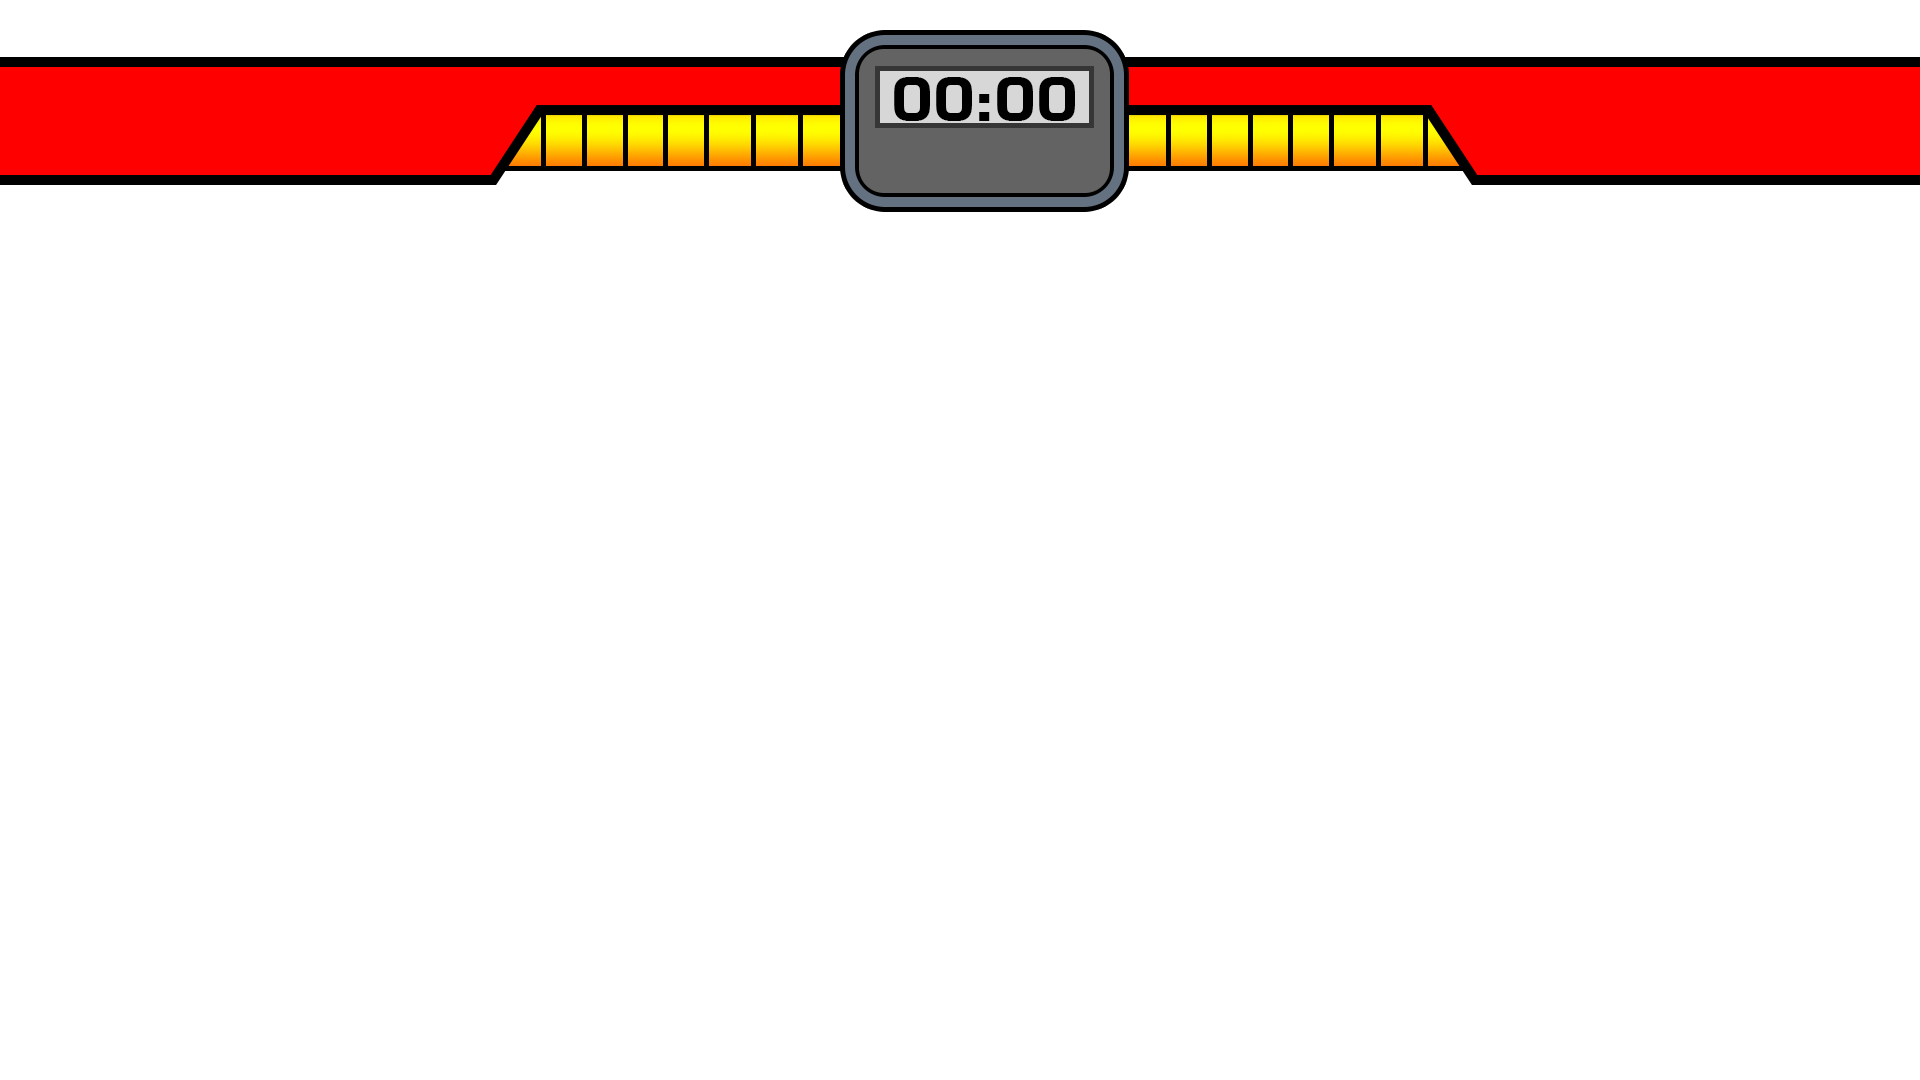
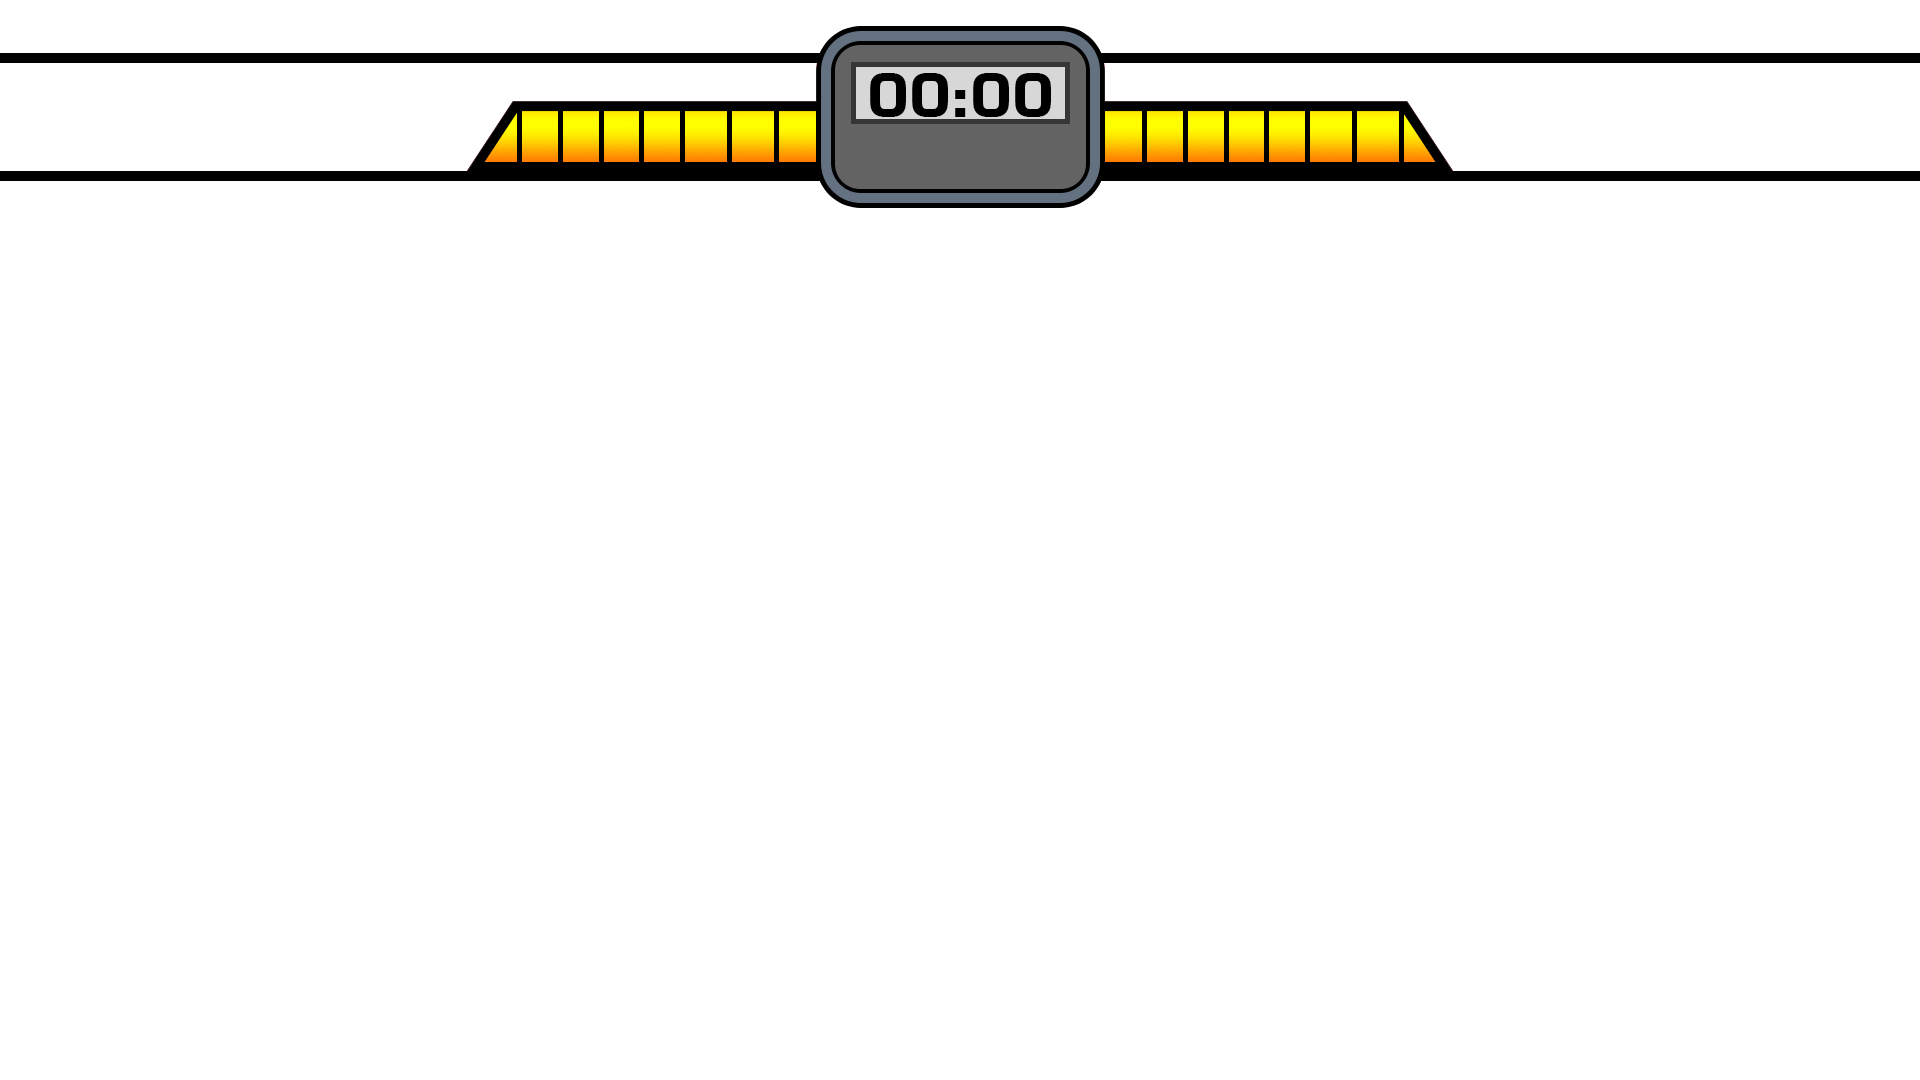
Implemented multiple character select and screen assets, reorganized and refined gameStates, began health bar integration

Changed region(s): [[0.0, 0.0, 1.0, 0.2139]]

diff --git a/Main Project - eSports/Project Kickass/Game1.cs b/Main Project - eSports/Project Kickass/Game1.cs
@@ -30,26 +30,35 @@ namespace Project_Kickass
         GraphicsDeviceManager graphics;
         SpriteBatch spriteBatch;
 
-        // here is a comment solely for github testing purposes so remove this shit at some point, k? 
-
         // asset attributes
         Texture2D titleScreen; // the title screen
         Texture2D healthBar; // the health bar
+        Texture2D health; // the health of each player
         Texture2D tile;
         Texture2D character;
         Texture2D character2;
         Texture2D pauseScreen;
+        Texture2D background;
+        Texture2D frame;
+        Texture2D sel1;
+        Texture2D sel2;
         Vector2 characterPos;
         Texture2D projectile;
         Rectangle titleSize;
         Rectangle healthBarSize;
-        Rectangle pauseSize; 
-        Boolean isActive;
+        Rectangle backgroundSize;
+        Rectangle frame1Size;
+        Rectangle frame2Size;
+        Rectangle sel1Size;
+        Rectangle pauseSize;
+        Rectangle health1Size;
+        Rectangle health2Size;
         Boolean isShot;
         GameBoard board;
         Character char1;
         Character char2;
         int gameState = 0;
+        bool canToggle;
 
         // keyboard state attribute
         KeyboardState kState;
@@ -88,21 +97,41 @@ namespace Project_Kickass
             spriteBatch = new SpriteBatch(GraphicsDevice);
 
             // TODO: use this.Content to load your game content here
+            // stage stuff
             tile = Content.Load<Texture2D>("Panels HD.png");
+            board = new GameBoard(tile);
+
+            // character stuff
             character = Content.Load<Texture2D>("Standing Sprite.png");
             character2 = Content.Load<Texture2D>("Scaled Character 1 Standing Sprite.png");
             projectile = Content.Load<Texture2D>("Projectile Sprite.png");
-            board = new GameBoard(tile);
             characterPos = new Vector2(7, 75);
-            titleScreen = Content.Load<Texture2D>("TitleScreenPlaceHolder.png"); // loads the title screen
-            titleSize = new Rectangle(0, 0, GraphicsDevice.Viewport.Width, GraphicsDevice.Viewport.Height); // creates a Rectangle object to set the size of the title screen to the size of the screen
-            healthBar = Content.Load<Texture2D>("HealthBar.png"); // loads the title screen
-            healthBarSize = new Rectangle(0, 0, GraphicsDevice.Viewport.Width, (GraphicsDevice.Viewport.Height)); // creates a Rectangle object to set the size of the title screen to
             char1 = new Character(0, 0, 100, 1, character);
             char2 = new Character(0, 7, 100, 2, character2);
-            healthBarSize = new Rectangle(0, 0, GraphicsDevice.Viewport.Width, (GraphicsDevice.Viewport.Height)); // creates a Rectangle object to set the size of the title screen to the size of the screen
+
+            // screen stuff
+            titleScreen = Content.Load<Texture2D>("TitleScreen.png"); // loads the title screen
+            titleSize = new Rectangle(0, 0, GraphicsDevice.Viewport.Width, GraphicsDevice.Viewport.Height); // creates a Rectangle object to set the size of the title screen to the size of the screen
             pauseScreen = Content.Load<Texture2D>("PauseScreenTemp.png"); // loads the pause screen
             pauseSize = new Rectangle(0, 0, GraphicsDevice.Viewport.Width, (GraphicsDevice.Viewport.Height)); // creates a Rectangle object to set the size of the pause screen to the size of the screen
+            background = Content.Load<Texture2D>("Background.png"); // loads the background screen
+            backgroundSize = new Rectangle(0, 0, GraphicsDevice.Viewport.Width, (GraphicsDevice.Viewport.Height)); // creates a Rectangle object to set the size of the background screen to the size of the screen
+
+            // health bar stuff
+            healthBar = Content.Load<Texture2D>("HealthBar.png"); // loads the health bar
+            healthBarSize = new Rectangle(0, 0, GraphicsDevice.Viewport.Width, (GraphicsDevice.Viewport.Height)); // creates a Rectangle object to set the size of the title screen to
+            health = Content.Load<Texture2D>("Health.png"); // loads the player health 
+            health1Size = new Rectangle(0, 28, 600, 52); // creates a Rectangle object to set the size of player 1's health to
+            health2Size = new Rectangle(500, 28, 600, 52); // creates a Rectangle object to set the size of player 2's health to
+            healthBarSize = new Rectangle(0, 0, GraphicsDevice.Viewport.Width, (GraphicsDevice.Viewport.Height)); // creates a Rectangle object to set the size of the title screen to the size of the screen
+
+            // character select stuff
+            frame = Content.Load<Texture2D>("CharFrame.png"); // loads the character selector frame
+            //(to do later) frame1Size = new Rectangle(100, 100, GraphicsDevice.Viewport.Width / 5, GraphicsDevice.Viewport.Height / 5); // creates a Rectangle object to set the size of the character selector frame
+            //(to do later) frame2Size = new Rectangle(500, 100, GraphicsDevice.Viewport.Width / 5, GraphicsDevice.Viewport.Height / 5); // creates a Rectangle object to set the size of the character selector frame
+            sel1 = Content.Load<Texture2D>("CharSel1.png"); // loads the character selector for player 1
+            sel2 = Content.Load<Texture2D>("CharSel2.png"); // loads the character selector for player 2
+            //(to do later) sel1Size = new Rectangle(0, 0, GraphicsDevice.Viewport.Width / 5, GraphicsDevice.Viewport.Height / 5); // creates a Rectangle object to set the size of the character selector frame
 
             //External Tool Values ----------------------------------------------
             //Read in Health
@@ -169,27 +198,49 @@ namespace Project_Kickass
                 Exit();
 
             // TODO: Add your update logic here
-            kState = Keyboard.GetState();
+            kState = Keyboard.GetState();           
 
-            if (gameState == 1)
+            if (gameState == 2) // gameState has to be 'active' for commands to register
             {
                 char1.Input(kState);
                 char2.Input(kState);
             }
-            
-            if (kState.IsKeyDown(Keys.Space)) // sets the gameState to active
+
+            if (gameState == 0)
             {
-                isActive = true;
-                gameState = 1;
+                if (kState.IsKeyDown(Keys.Enter)) // sets the gameState to character select
+                {
+                    gameState = 1;
+
+                }
             }
 
-            if (kState.IsKeyDown(Keys.Tab)) // sets the gameState to paused if active and active if paused
+            if (gameState == 1)
             {
-                if (isActive == true)
+                if (kState.IsKeyDown(Keys.Space)) // sets the gameState to active
                 {
                     gameState = 2;
                 }
-                else gameState = 1;
+            }
+
+            if (gameState == 2 && kState.IsKeyDown(Keys.Tab) && canToggle == true) // if active and player presses tab, pause
+            {
+                canToggle = false;
+                gameState = 3;
+            }
+
+            if (gameState == 3 && kState.IsKeyDown(Keys.Tab) && canToggle == true) // if paused and player presses tab, unpause
+            {
+                canToggle = false;
+                gameState = 2;
+            }
+
+            if (gameState == 2 || gameState == 3)
+            {
+                if (kState.IsKeyUp(Keys.Tab))
+                {
+                    canToggle = true;
+                }
             }
 
             base.Update(gameTime);
@@ -216,25 +267,36 @@ namespace Project_Kickass
                     spriteBatch.Draw(titleScreen, titleSize, Color.White);
                     break;
 
-                case 1: // active gameState
-                    if(isShot == true)
+                case 1: // character select screen
+                    spriteBatch.Draw(background, backgroundSize, Color.White);
+                    //spriteBatch.Draw(sel1, sel1Size, Color.White);
+                    //spriteBatch.Draw(frame, frame1Size, Color.White);
+                    //spriteBatch.Draw(frame, frame2Size, Color.White);
+                    break;
+
+                case 2: // active gameState
+                    if (isShot == true)
                     {
                         for (int i = 1; i < 800; i++)
                         {
                             spriteBatch.Draw(projectile, new Vector2((float)characterPos.X + i, (float)characterPos.Y), Color.White);
-                            isShot = false; 
+                            isShot = false;
                         }
                     }
-                    
-                    spriteBatch.Draw(healthBar, healthBarSize, Color.White);
 
+
+                    spriteBatch.Draw(health, health1Size, Color.White);
+                    spriteBatch.Draw(health, health2Size, Color.White);
+                    spriteBatch.Draw(healthBar, healthBarSize, Color.White);
                     break;
 
-                case 2: // pause gameState
+                case 3: // pause gameState
+                    
                     spriteBatch.Draw(healthBar, healthBarSize, Color.White);
                     spriteBatch.Draw(pauseScreen, pauseSize, Color.White);
                     break;
             }
+
 
             spriteBatch.End();
 

diff --git a/Main Project - eSports/Project Kickass/Character.cs b/Main Project - eSports/Project Kickass/Character.cs
@@ -18,6 +18,7 @@ namespace Project_Kickass
         private int xPos;
         private int yPos;
         private int health;
+        private int maxHealth;
         private int player; //tells which player controls character
         private Projectile bullet;
         private Texture2D skin;
